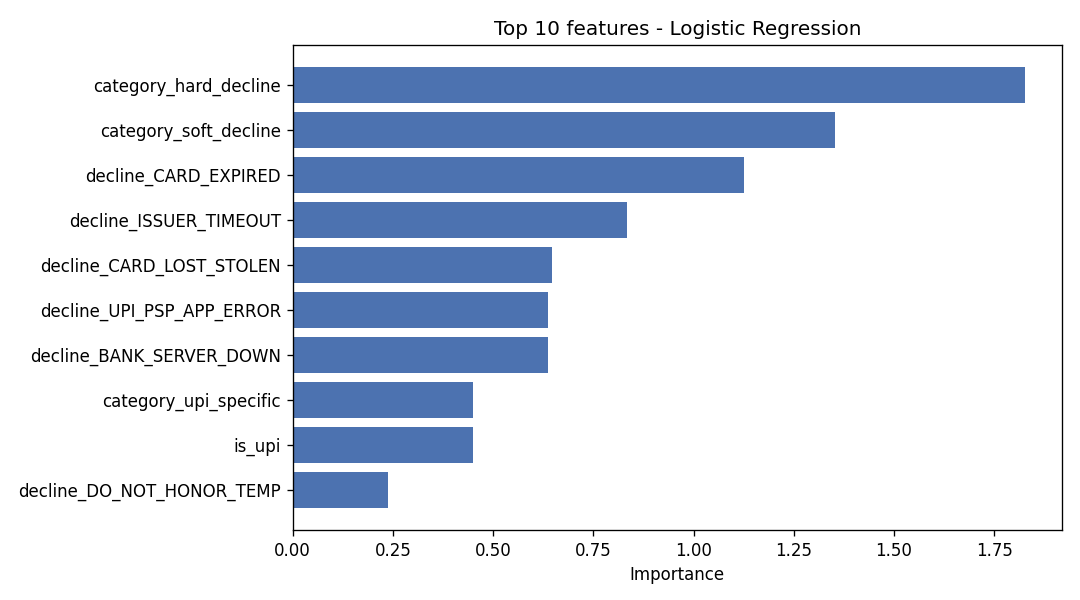
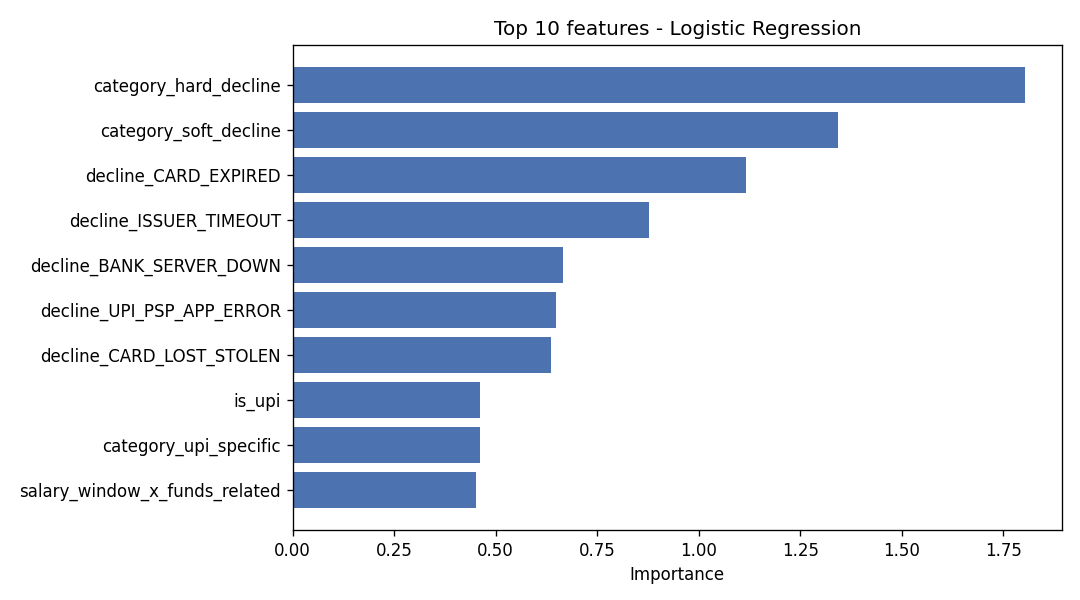
Day 5: rule-based scheduler + fixed salary-window interaction bug

diff --git a/src/rule_scheduler.py b/src/rule_scheduler.py
@@ -1,0 +1,181 @@
+"""
+Day 5: Rule-based scheduler.
+
+Combines two things:
+1. Hard domain rules that override the model when we already KNOW the
+   answer (e.g. CARD_EXPIRED will not magically start working - no amount
+   of clever timing fixes an actually-expired card)
+2. The Day 4 model's predictions, used to search across several candidate
+   retry days and pick whichever one has the highest predicted success
+   probability - this is the actual "smart" part of Smart Recovery Engine
+
+Produces one final action per failed, retryable transaction:
+    - smart_retry_scheduled  (retry on the model's best predicted day)
+    - whatsapp_nudge         (UPI mandate confirmation issues - nudge, don't blind-retry)
+    - escalate_update_payment_method  (retrying would waste the attempt)
+    - exclude_route_to_winback  (voluntary churn - not a recovery case at all)
+
+Usage:
+    python src/rule_scheduler.py
+"""
+
+from pathlib import Path
+
+import joblib
+import pandas as pd
+
+TRANSACTIONS_PATH = Path(__file__).parent.parent / "data" / "generated" / "transactions.csv"
+MODEL_PATH = Path(__file__).parent.parent / "data" / "generated" / "model.pkl"
+OUTPUT_PATH = Path(__file__).parent.parent / "data" / "generated" / "scheduled_actions.csv"
+
+# Card network rule of thumb: issuers cap retries at a handful of attempts
+# within a rolling window before treating further attempts as abusive.
+# This dataset only models a single retry per transaction, so this constant
+# doesn't bind yet - it's here as a documented real-world constraint the
+# scheduler is designed to respect once multi-retry sequences are modeled.
+MAX_RETRIES_PER_CYCLE = 4
+
+# How many days ahead the scheduler is willing to search for a better retry
+# day. Capped at 5 to match the 1-5 day retry-offset range used when the
+# training data was generated (Day 2) - searching further than that would
+# ask the model to extrapolate beyond what it actually learned from.
+SEARCH_WINDOW_DAYS = 5
+
+SALARY_WINDOW_DAYS = {1, 2, 3, 7, 8}
+
+# Codes where retrying is pointless regardless of what the model predicts -
+# these override the model entirely. A model trained on noisy synthetic data
+# could theoretically learn a spurious "20% chance" for CARD_LOST_STOLEN;
+# domain knowledge says that's not real signal worth trusting.
+HARD_OVERRIDE_CODES = {"CARD_EXPIRED", "CARD_LOST_STOLEN", "INVALID_CARD_DETAILS"}
+
+# This one gets its own action even though the model would say it's "worth
+# retrying" - the real fix isn't a blind retry, it's getting the customer to
+# open their UPI app and confirm the mandate. Retrying without that just
+# fails again for the same reason.
+NUDGE_INSTEAD_OF_RETRY = {"UPI_MANDATE_NOT_CONFIRMED"}
+
+RETRY_THRESHOLD = 0.50
+
+
+def load_model_bundle():
+    return joblib.load(MODEL_PATH)
+
+
+def build_feature_row(decline_code, decline_category, is_upi, charge_day,
+                       candidate_day, subscription_amount, feature_cols):
+    """Builds one feature row matching the exact column layout the model
+    was trained on (Day 4), for a hypothetical retry on candidate_day."""
+    row = {col: 0 for col in feature_cols}
+
+    decline_col = f"decline_{decline_code}"
+    category_col = f"category_{decline_category}"
+    if decline_col in row:
+        row[decline_col] = 1
+    if category_col in row:
+        row[category_col] = 1
+
+    row["is_upi"] = int(is_upi)
+    row["charge_day_of_month"] = charge_day
+    row["retry_day_of_month"] = candidate_day
+    is_salary = int(candidate_day in SALARY_WINDOW_DAYS)
+    row["is_salary_window"] = is_salary
+    funds_related = int(decline_code in {"INSUFFICIENT_FUNDS", "DO_NOT_HONOR_TEMP"})
+    row["salary_window_x_funds_related"] = is_salary * funds_related
+    row["days_since_failure"] = (candidate_day - charge_day) % 28
+    row["subscription_amount"] = subscription_amount
+
+    return row
+
+
+def find_best_retry_day(model_bundle, decline_code, decline_category,
+                         is_upi, charge_day, subscription_amount):
+    """Searches candidate retry days 1..SEARCH_WINDOW_DAYS ahead, scores
+    each with the trained model, returns the best day and its predicted
+    probability."""
+    model = model_bundle["model"]
+    feature_cols = model_bundle["feature_cols"]
+    scaler = model_bundle["scaler"]
+    numeric_cols = model_bundle["numeric_cols"]
+
+    candidates = []
+    for offset in range(1, SEARCH_WINDOW_DAYS + 1):
+        candidate_day = ((charge_day - 1 + offset) % 28) + 1
+        row = build_feature_row(decline_code, decline_category, is_upi,
+                                  charge_day, candidate_day, subscription_amount,
+                                  feature_cols)
+        candidates.append((candidate_day, row))
+
+    X_candidates = pd.DataFrame([c[1] for c in candidates])[feature_cols]
+    X_candidates_scaled = X_candidates.copy()
+    X_candidates_scaled[numeric_cols] = scaler.transform(X_candidates[numeric_cols])
+
+    probs = model.predict_proba(X_candidates_scaled)[:, 1]
+    best_idx = probs.argmax()
+
+    return candidates[best_idx][0], probs[best_idx]
+
+
+def decide_action(row, model_bundle):
+    if row["initial_status"] == "success":
+        return pd.Series({"action": "none", "scheduled_retry_day": None,
+                           "predicted_success_prob": None})
+
+    if row["is_voluntary_churn"]:
+        return pd.Series({"action": "exclude_route_to_winback",
+                           "scheduled_retry_day": None, "predicted_success_prob": None})
+
+    decline_code = row["decline_code"]
+
+    if decline_code in HARD_OVERRIDE_CODES:
+        return pd.Series({"action": "escalate_update_payment_method",
+                           "scheduled_retry_day": None, "predicted_success_prob": None})
+
+    if decline_code in NUDGE_INSTEAD_OF_RETRY:
+        return pd.Series({"action": "whatsapp_nudge",
+                           "scheduled_retry_day": None, "predicted_success_prob": None})
+
+    best_day, best_prob = find_best_retry_day(
+        model_bundle, decline_code, row["decline_category"],
+        row["payment_method"] == "upi", row["charge_day_of_month"],
+        row["subscription_amount"]
+    )
+
+    if best_prob >= RETRY_THRESHOLD:
+        return pd.Series({"action": "smart_retry_scheduled",
+                           "scheduled_retry_day": best_day,
+                           "predicted_success_prob": round(best_prob, 3)})
+    else:
+        return pd.Series({"action": "escalate_update_payment_method",
+                           "scheduled_retry_day": None,
+                           "predicted_success_prob": round(best_prob, 3)})
+
+
+def main():
+    df = pd.read_csv(TRANSACTIONS_PATH)
+    for col in ["is_voluntary_churn", "is_salary_window", "retry_success"]:
+        df[col] = df[col].map({"True": True, "False": False, True: True, False: False})
+
+    model_bundle = load_model_bundle()
+
+    print(f"Scheduling actions for {len(df):,} transactions "
+          f"(searching up to {SEARCH_WINDOW_DAYS} days ahead per failure)...")
+
+    decisions = df.apply(lambda row: decide_action(row, model_bundle), axis=1)
+    result = pd.concat([df[["transaction_id", "decline_code", "decline_category",
+                             "payment_method"]], decisions], axis=1)
+
+    result.to_csv(OUTPUT_PATH, index=False)
+    print(f"Saved to {OUTPUT_PATH}\n")
+
+    print("Action breakdown:")
+    print(result["action"].value_counts())
+    print()
+
+    print("Sample smart_retry_scheduled decisions:")
+    smart = result[result["action"] == "smart_retry_scheduled"]
+    print(smart.head(5).to_string(index=False))
+
+
+if __name__ == "__main__":
+    main()

diff --git a/src/build_features.py b/src/build_features.py
@@ -53,6 +53,16 @@ def engineer_features(df: pd.DataFrame) -> pd.DataFrame:
     features["retry_day_of_month"] = df["retry_day_of_month"]
     features["is_salary_window"] = df["is_salary_window"].astype(int)
 
+    # Interaction feature: the salary-window boost was only ever designed to
+    # apply to funds-related failures (Day 2's generator only boosts
+    # INSUFFICIENT_FUNDS and DO_NOT_HONOR_TEMP). Without this interaction term,
+    # a linear model can only learn ONE global salary-window effect across all
+    # 8 decline codes, which dilutes the real signal down to near-zero because
+    # it's genuinely irrelevant for 6 of them. This lets the model learn the
+    # effect specifically where it actually exists.
+    funds_related = df["decline_code"].isin(["INSUFFICIENT_FUNDS", "DO_NOT_HONOR_TEMP"]).astype(int)
+    features["salary_window_x_funds_related"] = features["is_salary_window"] * funds_related
+
     # Days between original failure and retry attempt (handles month wraparound
     # the same way generate_data.py did, so it's consistent with how the data was made)
     days_gap = (df["retry_day_of_month"] - df["charge_day_of_month"]) % 28

diff --git a/docs/day5_notes.md b/docs/day5_notes.md
@@ -1,0 +1,90 @@
+# Day 5 - Rule-based scheduler
+
+## What was built
+
+`src/rule_scheduler.py` - combines hard domain rules with the Day 4 model's
+predictions to produce one final action per transaction. For retryable
+failures, it searches candidate retry days and asks the model to score
+each one, then picks the best day rather than using a fixed offset.
+
+## The decision logic, in order
+
+1. **Success transactions** -> no action needed
+2. **Voluntary churn** (`UPI_MANDATE_REVOKED`) -> excluded, routed to a
+   hypothetical win-back flow instead of retry
+3. **Hard override codes** (`CARD_EXPIRED`, `CARD_LOST_STOLEN`,
+   `INVALID_CARD_DETAILS`) -> always escalate, **regardless of what the
+   model predicts**. This is a deliberate rule that overrides the ML
+   model - if a card is genuinely expired, no clever retry timing fixes
+   that, and trusting a model's output here would just waste a retry
+   attempt on a lost cause. Domain knowledge beats a statistical model
+   when the answer is already certain.
+4. **`UPI_MANDATE_NOT_CONFIRMED`** -> WhatsApp nudge instead of a blind
+   retry, since the real fix is getting the customer to open their UPI app,
+   not retrying a charge against an unconfirmed mandate
+5. **Everything else** (soft declines, other UPI-specific failures) -> the
+   model searches candidate retry days and schedules the one with the
+   highest predicted success probability, or escalates if even the best
+   day falls below a 50% threshold
+
+## A real bug I found and fixed today (not a design choice - an actual mistake)
+
+The first version scheduled `txn_000017` (an `INSUFFICIENT_FUNDS` failure)
+for day 9, skipping day 8 - even though day 8 is inside the salary window
+and day 9 isn't. Investigated by printing the model's raw coefficients:
+`is_salary_window` had learned a near-zero (even slightly negative) effect
+overall.
+
+Root cause: the salary-window boost was only ever designed (Day 2) to help
+funds-related failures specifically. But the model only had a single global
+`is_salary_window` column, applied across all 8 decline codes. Since salary
+timing genuinely doesn't matter for 6 of them, the real effect got diluted
+into near-nothing when the model tried to learn one flat coefficient across
+the whole dataset.
+
+**Fix:** added an interaction feature,
+`salary_window_x_funds_related = is_salary_window * is_funds_related_code`,
+to `build_features.py`, and retrained. Result: `is_salary_window` alone
+dropped to -0.357 (no real effect on its own), while the new interaction
+term picked up +0.453 - the model now correctly learned that salary timing
+only matters for the codes it should matter for. Re-ran the scheduler:
+`txn_000017` now correctly picks day 8. ROC-AUC also nudged up slightly
+(0.736 -> 0.739) as a side benefit.
+
+This is worth explaining in an interview as a genuine debugging story: the
+scheduler's own output caught a modeling gap that the training metrics
+alone didn't surface - accuracy and ROC-AUC looked fine, but a specific,
+checkable prediction was wrong for an explainable reason.
+
+## Also capped the search window at 5 days, not 7
+
+The first draft searched 7 days ahead for the best retry day. But Day 2's
+generator only ever simulated retry offsets of 1-5 days - asking the model
+to score day 6 or 7 means asking it to extrapolate beyond what it actually
+saw in training, which isn't reliable. Capped `SEARCH_WINDOW_DAYS` at 5 to
+match the training distribution exactly.
+
+## Results
+
+| Action | Count | What it means |
+|---|---|---|
+| none (success) | 8,675 | No failure, nothing to do |
+| smart_retry_scheduled | 705 | Model found a day worth retrying on |
+| whatsapp_nudge | 324 | UPI mandate needs manual confirmation |
+| escalate_update_payment_method | 173 | Retrying would be pointless |
+| exclude_route_to_winback | 123 | Voluntary churn, not a recovery case |
+
+Cross-checked every decline code against its assigned action - every hard
+decline routes to escalation with zero exceptions, every
+`UPI_MANDATE_NOT_CONFIRMED` routes to a nudge, every `UPI_MANDATE_REVOKED`
+is excluded. `DO_NOT_HONOR_TEMP` (an intentionally ambiguous code) is the
+only one that splits between retry and escalate based on the model's
+day-by-day prediction - which is exactly the kind of case-by-case judgment
+a naive one-size-fits-all retry policy can't make.
+
+## What's next (Day 6)
+
+Build the simulation engine: run a naive strategy (retry everything once,
+same way, no rules) against this smart scheduler's decisions on the same
+10,000 transactions, and measure the actual recovery-rate lift - this is
+the headline number the whole project has been building toward.

diff --git a/README.md b/README.md
@@ -48,7 +48,7 @@ Being built day by day for the hackathon (deadline Sept 3, 2026). Progress log i
 - [x] Day 2: Synthetic data generator
 - [x] Day 3: EDA + feature engineering
 - [x] Day 4: ML retry-success classifier
-- [ ] Day 5: Rule-based scheduler
+- [x] Day 5: Rule-based scheduler
 - [ ] Day 6: Simulation engine (naive vs. smart)
 - [ ] Day 7: Dashboard
 - [ ] Day 8: Integration
